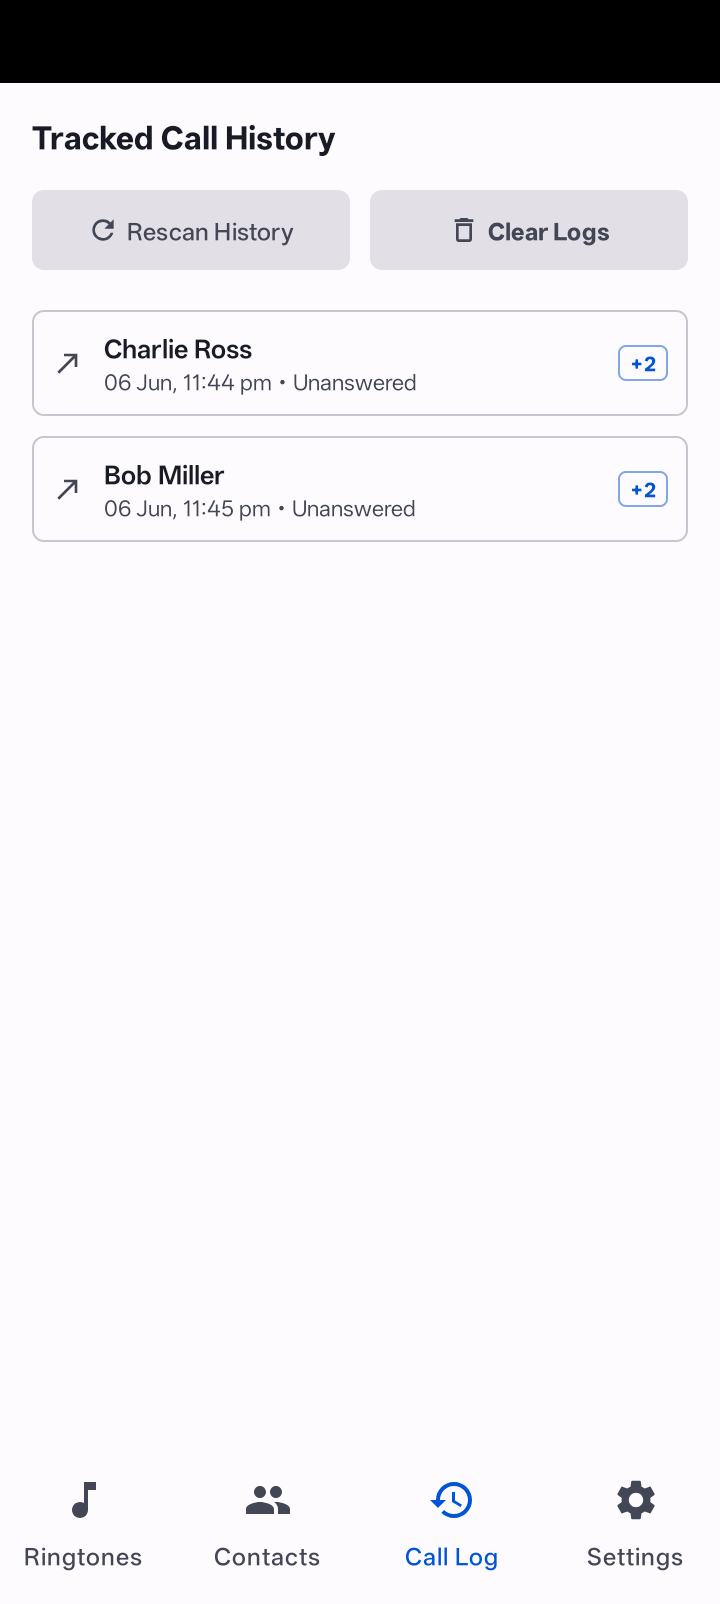
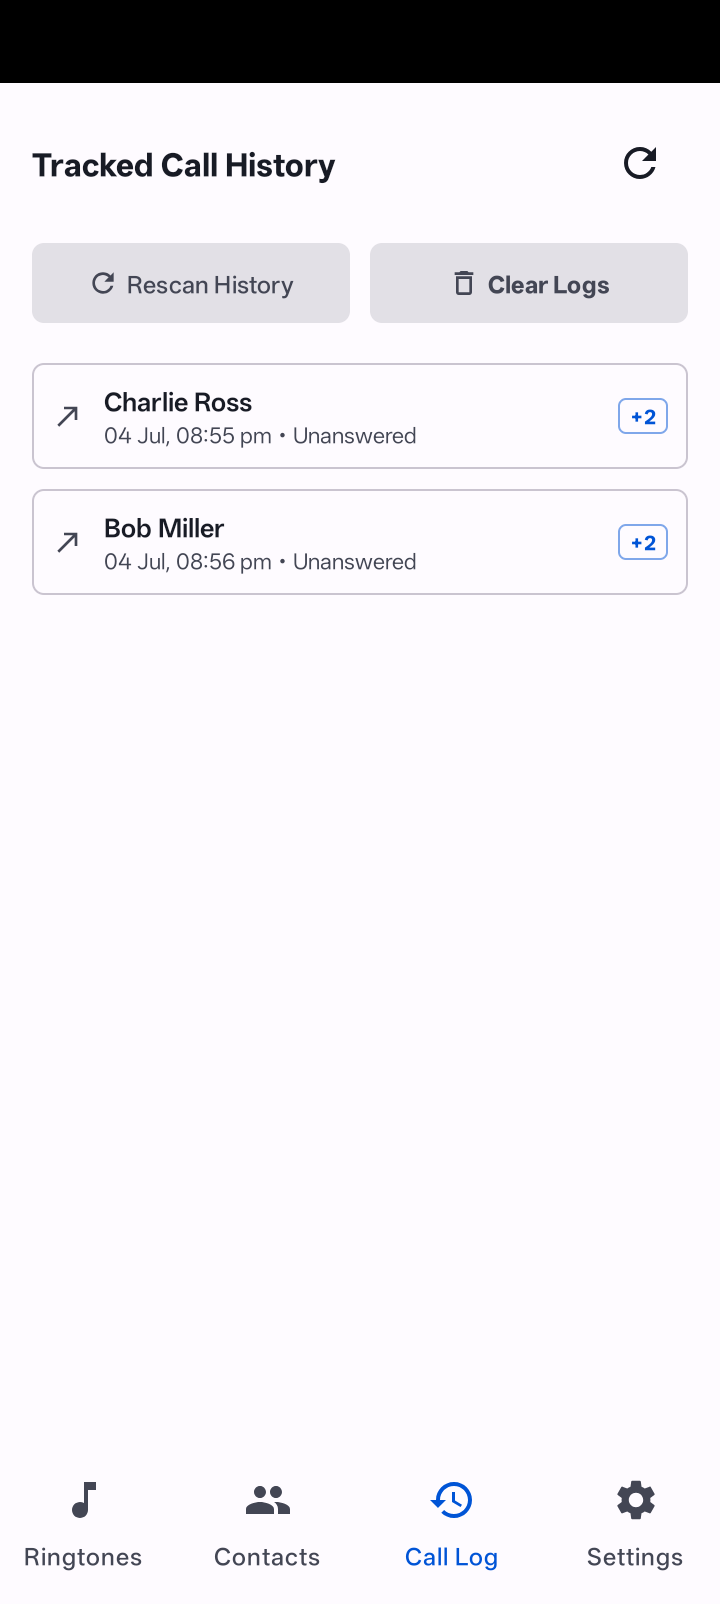
chore: bump version to v1.6.0

Changed region(s): [[0.0306, 0.0623, 0.9778, 0.3741], [0.3972, 0.3117, 0.5806, 0.3741]]

diff --git a/CHANGELOG.md b/CHANGELOG.md
@@ -7,6 +7,28 @@ and this project adheres to [Semantic Versioning](https://semver.org/spec/v2.0.0
 
 ---
 
+## [1.6.0] - 2026-07-04
+
+### Fixed
+
+- b258a2d  fix: update notification dismissal logic in CallSyncHelper
+- d89ec73  fix: clear existing call logs before adding new entries in ScreenshotTest
+
+### Added
+
+- 9101f4c  feat: add debug menu for managing custom ringtones and contacts
+- 8f5c688  feat: add functionality to set ringtone based on contact score
+- a5a6f81  feat: add sync functionality to CallLogsTab with loading indicator
+
+### Refactor
+
+- a18bd2a  refactor: remove ABI splits and version code mapping for APK outputs
+
+### Maintenance
+
+- 2bd6a56  chore: use html in fastlane files
+- 33fc94a  chore: add repobeats to readme
+
 ## [1.5.1] - 2026-06-11
 
 ### Added
